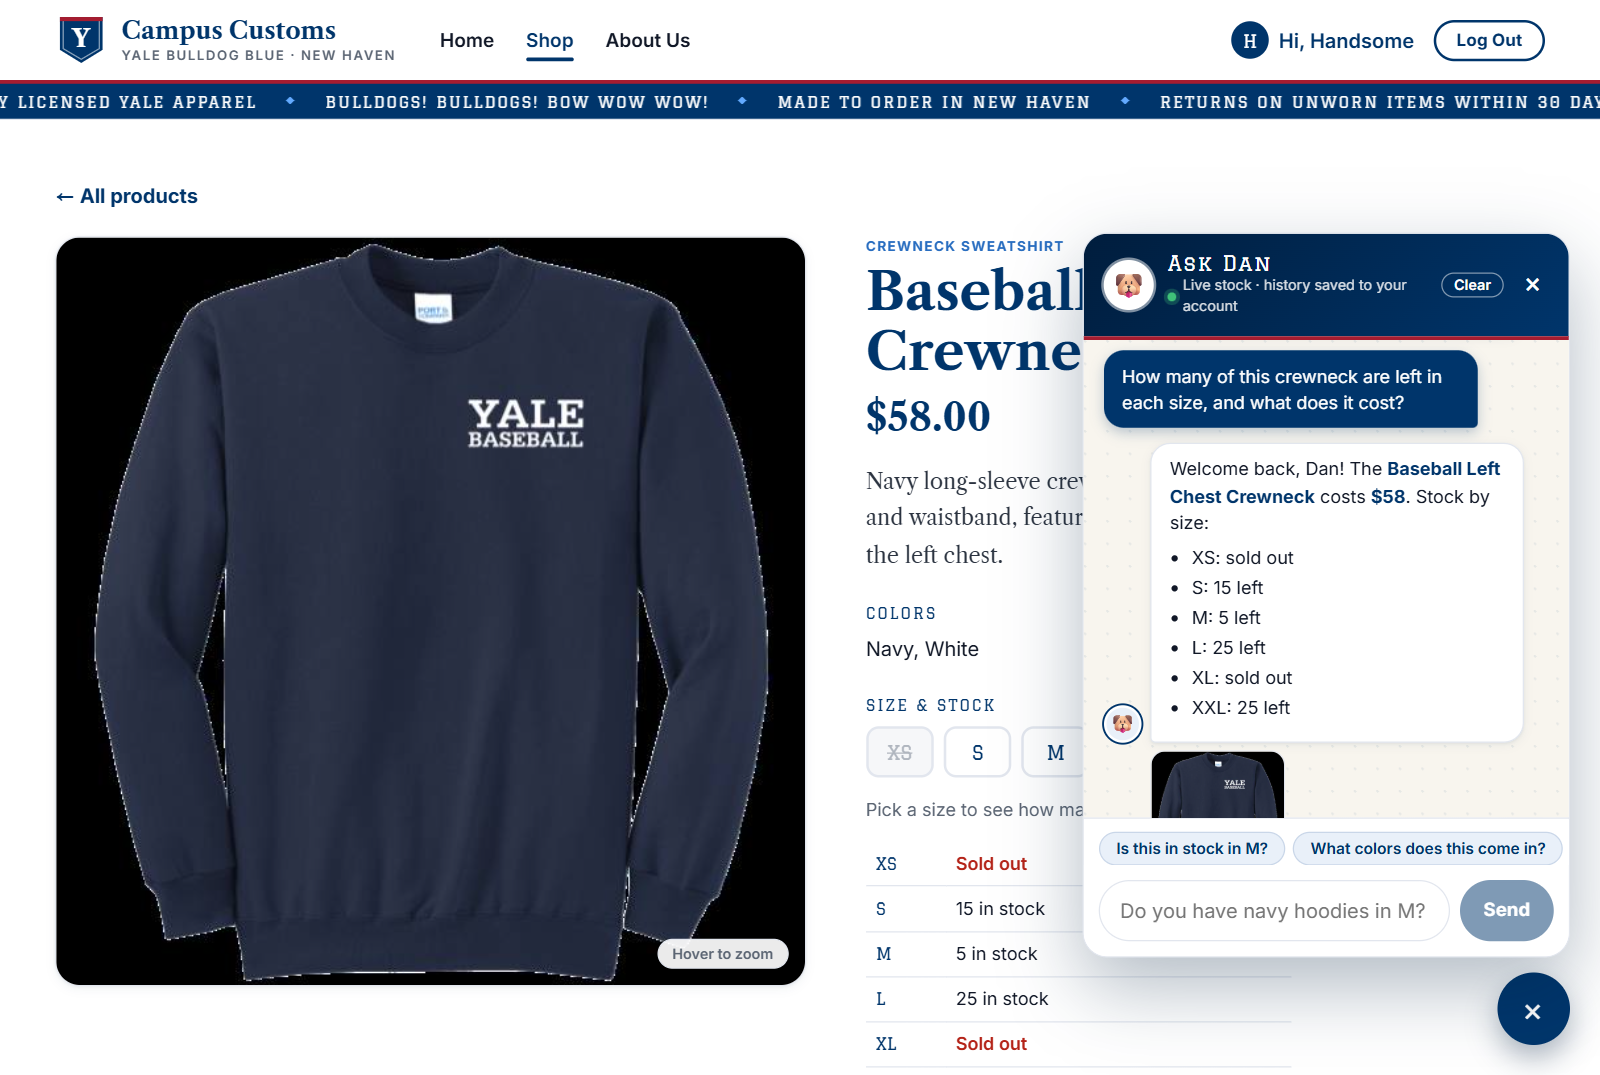
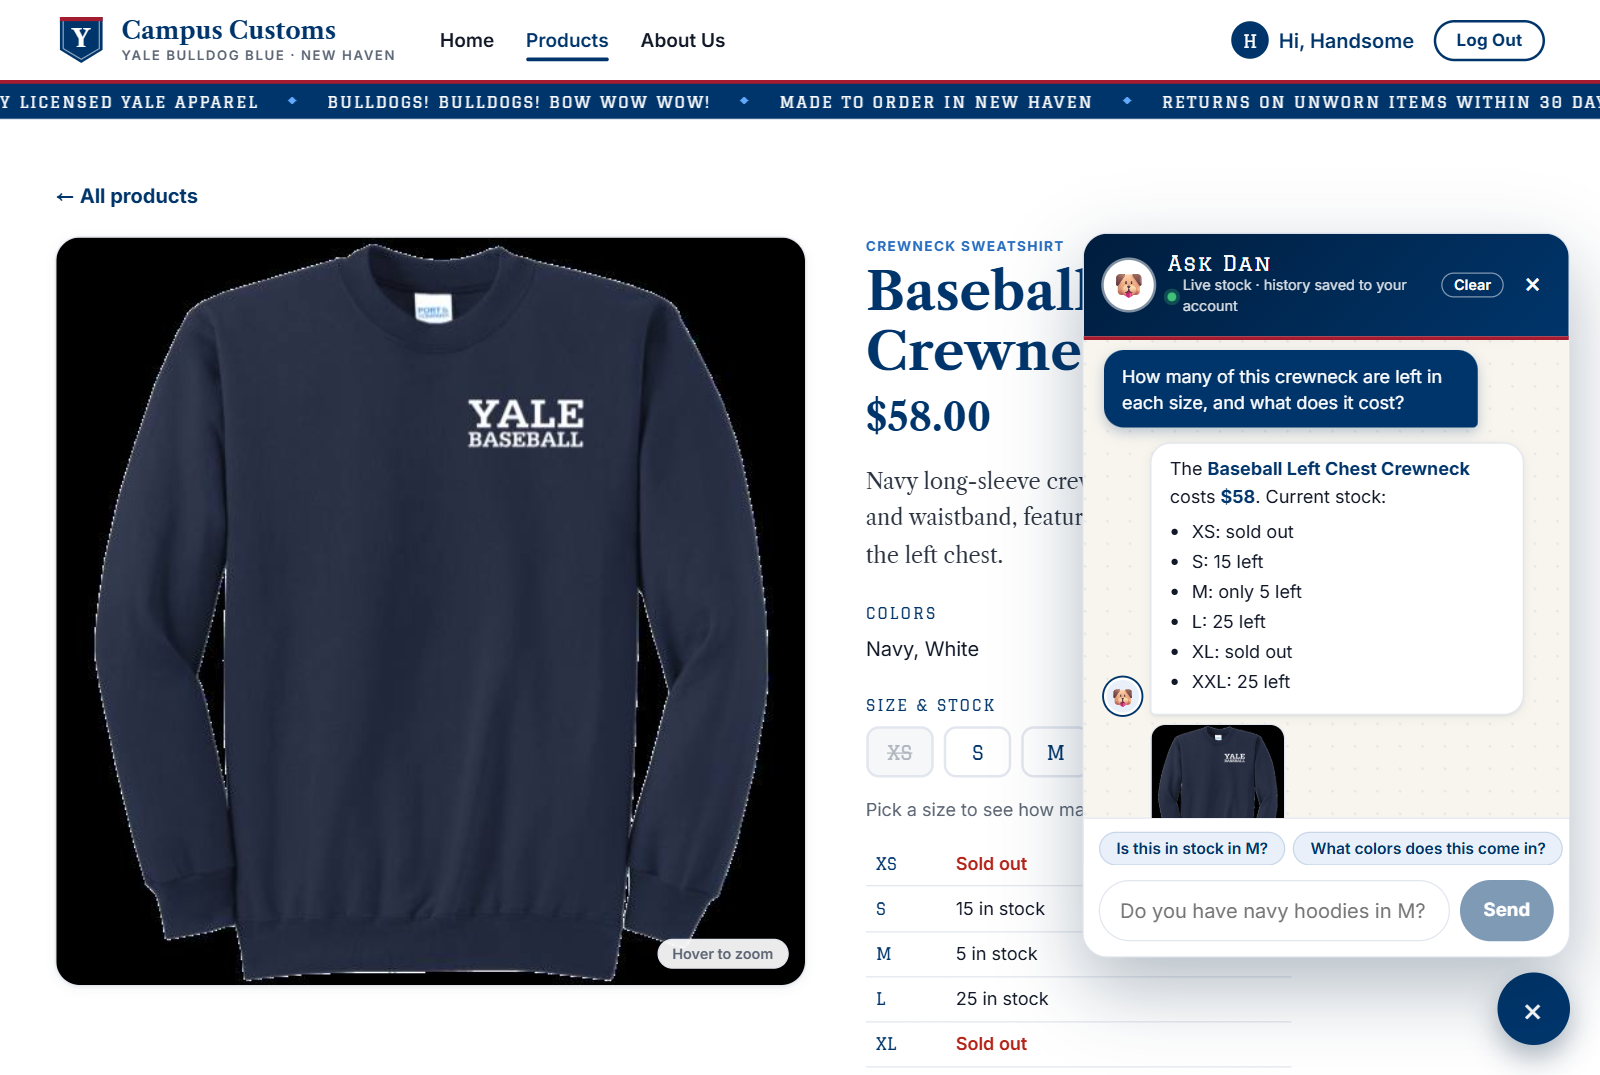
Match spec: nav "Products" label, pin requirements, refresh app check
- Nav link reads "Products" again (Problem 3 wording); docs updated
- requirements.txt pinned to the tested versions for reproducible installs
- app_check screenshots regenerated after the nav change; results unchanged
- audit_trail.json: latest appended runs

diff --git a/output/app_check.html b/output/app_check.html
@@ -81,7 +81,7 @@
       <table>
         <tr><th>Price</th><th>XS</th><th>S</th><th>M</th><th>L</th><th>XL</th><th>XXL</th></tr>
         <tr><td>$58.00</td><td>0</td><td>15</td><td>5</td><td>25</td><td>0</td><td>25</td></tr>
-        <tr><th colspan="7">Chat said: "$58 … XS: sold out, S: 15 left, M: 5 left, L: 25 left, XL: sold out, XXL: 25 left" ✔</th></tr>
+        <tr><th colspan="7">Chat said: "$58 … XS: sold out, S: 15 left, M: only 5 left, L: 25 left, XL: sold out, XXL: 25 left" ✔</th></tr>
       </table>
     </div>
   </section>

diff --git a/frontend/src/components/NavBar.tsx b/frontend/src/components/NavBar.tsx
@@ -5,7 +5,7 @@ import YaleMark from './YaleMark'
 
 const links = [
   { to: '/', label: 'Home', end: true },
-  { to: '/products', label: 'Shop' },
+  { to: '/products', label: 'Products' },
   { to: '/about', label: 'About Us' },
 ]
 

diff --git a/output/harness.md b/output/harness.md
@@ -9,7 +9,7 @@ the reference: models, tools, safety, specs, and the audit trail.
 ```
 Browser (React + Vite, :5173)                        FastAPI backend (:8000, backend/main.py)
 ┌───────────────────────────────┐   /api/*, /images  ┌──────────────────────────────────────────┐
-│ Pages: Home, Shop, Product,   │ ─────────────────▶ │ products · auth · chat · chat/stream ·   │
+│ Pages: Home, Products, Item,  │ ─────────────────▶ │ products · auth · chat · chat/stream ·   │
 │ About, Log in, Sign up        │   (Vite proxy,     │ chat/history                             │
 │ ChatWidget ("Ask Dan")        │    same origin,    │                                          │
 │ ChatResultsPanel (page cards) │    HttpOnly cookie)│ answer_chat():                           │

diff --git a/README.md b/README.md
@@ -73,7 +73,7 @@ account.
 
 ## Things to try
 
-- **Shop** → filter "In stock in size: XL", then sort by price.
+- **Products** → filter "In stock in size: XL", then sort by price.
 - On any product page, open **Ask Dan** and tap "Is this in stock in M?". The chat checks
   live inventory, and you can watch the tool steps as it works.
 - Ask "What hoodies do you have?". All matching hoodies appear as cards on the page, and
